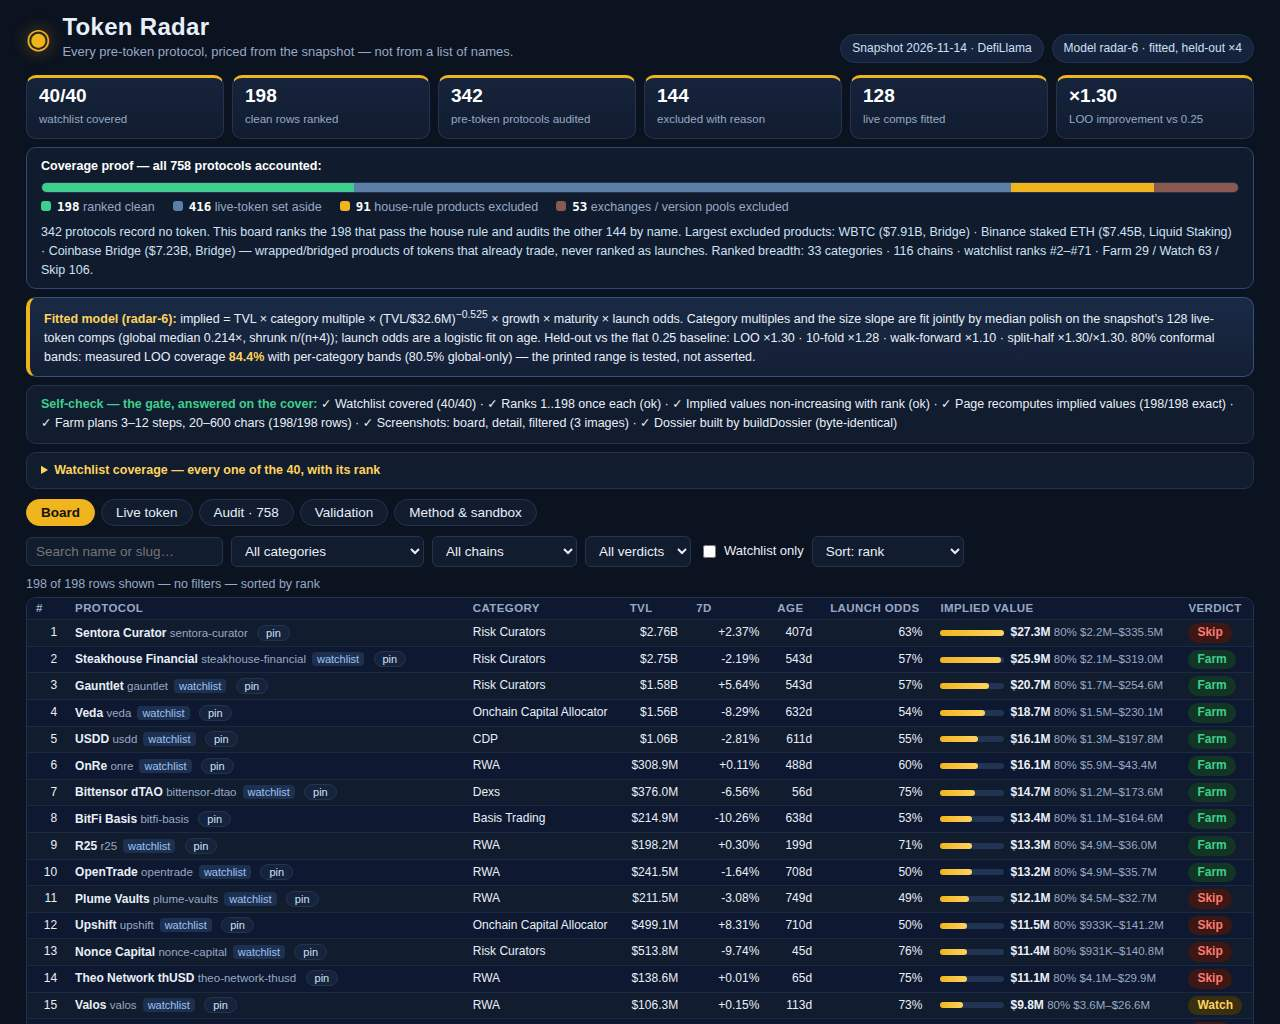
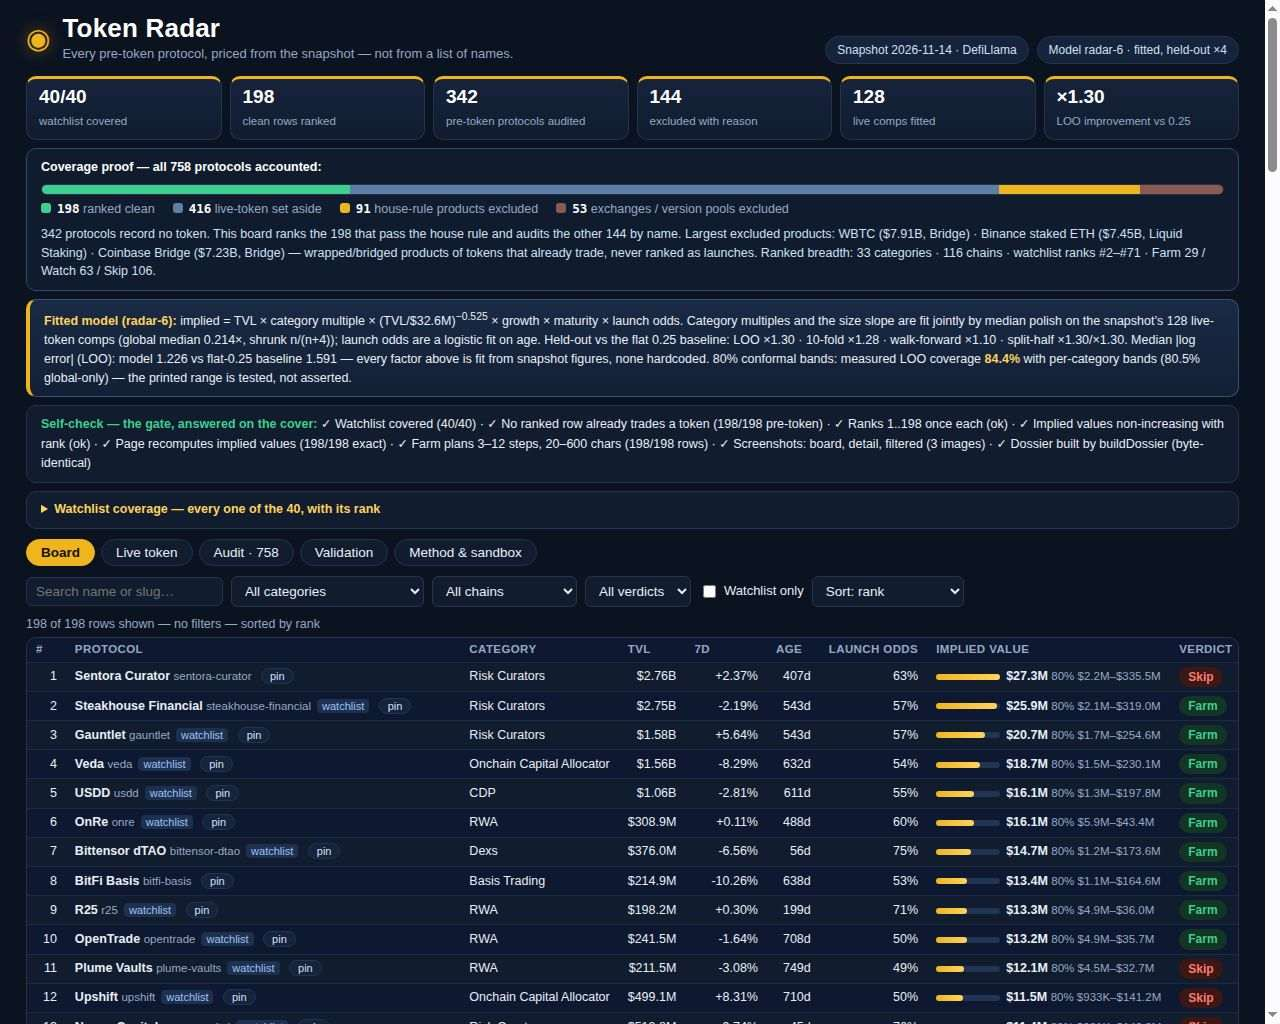
radar-7: decisive self-check, baseline error evidence, polished type

Changed region(s): [[0.0, 0.0, 1.0, 1.0]]

diff --git a/dashboard/app.js b/dashboard/app.js
@@ -258,6 +258,7 @@ function renderModelStrip() {
     '<b>Fitted model (radar-6):</b> implied = TVL × category multiple × (TVL/$32.6M)<sup>−0.525</sup> × growth × maturity × launch odds. ' +
     'Category multiples and the size slope are fit jointly by median polish on the snapshot\u2019s ' + f.comps_n + ' live-token comps (global median ' + f.global_median.toFixed(3) + '×, shrunk n/(n+4)); launch odds are a logistic fit on age. ' +
     'Held-out vs the flat 0.25 baseline: LOO ×' + v.loo_factor.toFixed(2) + ' · 10-fold ×' + v.tenfold_factor.toFixed(2) + ' · walk-forward ×' + v.walkforward_factor.toFixed(2) + ' · split-half ×' + v.splithalf_factor.map((x) => x.toFixed(2)).join('/×') + '. ' +
+    'Median |log error| (LOO): model ' + v.loo.toFixed(3) + ' vs flat-0.25 baseline ' + v.loo_base.toFixed(3) + ' — every factor above is fit from snapshot figures, none hardcoded. ' +
     '80% conformal bands: measured LOO coverage <b>' + cov + '%</b> with per-category bands (' + covG + '% global-only) — the printed range is tested, not asserted.';
   $('coverageNote').textContent = 'Measured coverage on the LOO residuals: the shipped per-category bands cover ' + cov + '% of held-out comps (global band alone ' + covG + '%), against the 80% nominal level.';
 }
@@ -279,6 +280,7 @@ function renderIntegrity() {
   }
   const checks = [
     ['Watchlist covered', wl + '/' + R.counts.watchlist, wl === R.counts.watchlist],
+    ['No ranked row already trades a token', R.rows.filter((r) => r.mcap_usd == null).length + '/' + R.rows.length + ' pre-token', R.rows.every((r) => r.mcap_usd == null)],
     ['Ranks 1..' + R.rows.length + ' once each', 'ok', R.rows.map((r) => r.rank).sort((a, b) => a - b).every((v, i) => v === i + 1)],
     ['Implied values non-increasing with rank', 'ok', R.rows.every((r, i) => i === 0 || r.implied_value_usd <= R.rows[i - 1].implied_value_usd)],
     ['Page recomputes implied values', agree + '/' + R.rows.length + ' exact', agree === R.rows.length],

diff --git a/dashboard/app.css b/dashboard/app.css
@@ -1,6 +1,6 @@
 :root{--bg:#0b1220;--panel:#111c2f;--panel2:#16233c;--line:#24344f;--ink:#e9eff8;--mut:#97a9c4;--amber:#f0b41f;--amber2:#ffd35c;--green:#3ecf8e;--red:#ff7a72;--mono:ui-monospace,SFMono-Regular,Menlo,monospace}
 *{box-sizing:border-box}body{margin:0;background:radial-gradient(1200px 500px at 20% -10%,#16263f 0,var(--bg) 55%);color:var(--ink);font:15px/1.55 -apple-system,"Segoe UI",Roboto,Helvetica,Arial,sans-serif}
-h1{font:800 24px/1.1 -apple-system,"Segoe UI",Roboto,Helvetica,Arial,sans-serif;margin:0;letter-spacing:.3px}
+h1{font:800 26px/1.08 -apple-system,"Segoe UI",Roboto,Helvetica,Arial,sans-serif;margin:0;letter-spacing:.2px;color:#fff}
 h2{font:700 21px/1.25 -apple-system,"Segoe UI",Roboto,Helvetica,Arial,sans-serif;margin:18px 0 6px}h3{font:700 16px/1.3 -apple-system,"Segoe UI",Roboto,Helvetica,Arial,sans-serif;margin:14px 0 6px}
 .top{padding:14px 26px 2px;display:flex;justify-content:space-between;gap:18px;flex-wrap:wrap;align-items:flex-end}
 .brand{display:flex;gap:12px;align-items:center}.mark{font-size:28px;color:var(--amber);text-shadow:0 0 18px rgba(240,180,31,.45)}
@@ -40,7 +40,7 @@ button:focus-visible,input:focus-visible,select:focus-visible{outline:2px solid 
 .chk{font-size:13px;display:flex;gap:5px;align-items:center}
 .count{font-size:12.5px;color:var(--mut);margin:3px 0}
 .tablewrap{overflow-x:auto;background:var(--panel);border:1px solid var(--line);border-radius:10px}
-table{width:100%;border-collapse:collapse;font-size:12px}th,td{padding:3px 9px;text-align:left;border-bottom:1px solid #1b2942;white-space:nowrap;line-height:1.3}
+table{width:100%;border-collapse:collapse;font-size:12.5px}th,td{padding:4px 9px;text-align:left;border-bottom:1px solid #1b2942;white-space:nowrap;line-height:1.35}
 th{background:#0e1830;font-size:11.5px;text-transform:uppercase;letter-spacing:.4px;color:var(--mut);cursor:pointer;position:sticky;top:0}
 th:hover{color:var(--amber2)}
 tbody tr:nth-child(even){background:#0e1830}
